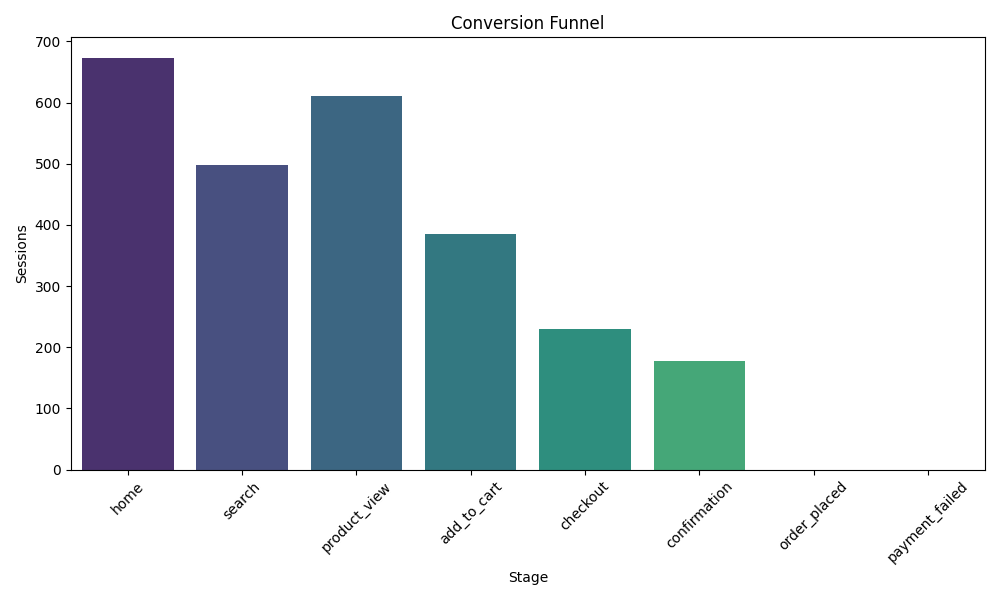
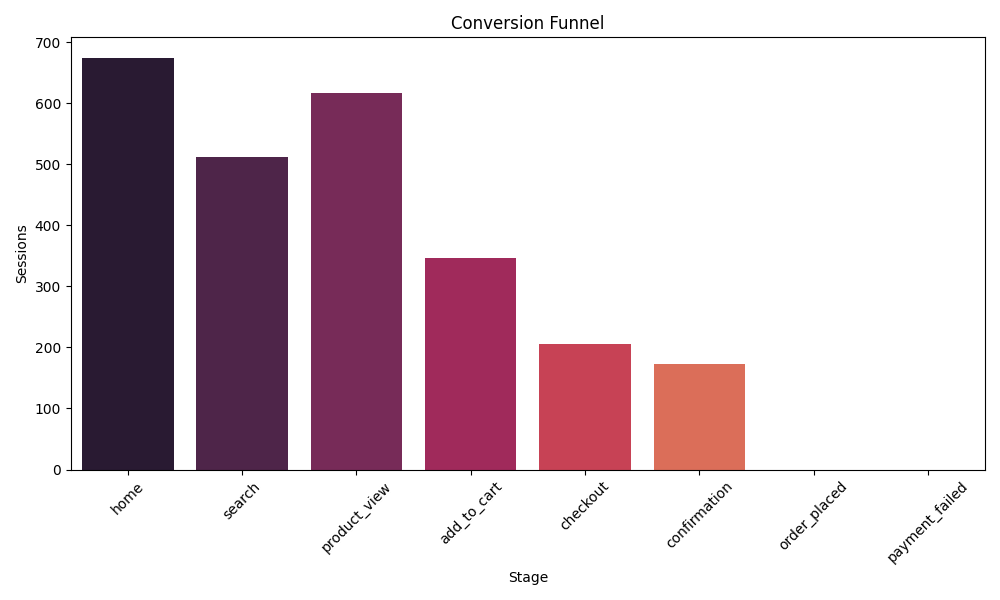
Update visualization colors and cleanup spark pipeline

Changed region(s): [[0.031, 0.09, 0.744, 0.81], [0.031, 0.06, 0.062, 0.09]]

diff --git a/src/spark_pipeline.py b/src/spark_pipeline.py
@@ -160,7 +160,7 @@ def generate_plots(gold_df):
     funnel_df = pd.DataFrame(list(funnel_counts.items()), columns=['Stage', 'Sessions'])
     
     plt.figure(figsize=(10, 6))
-    sns.barplot(data=funnel_df, x='Stage', y='Sessions', palette='viridis')
+    sns.barplot(data=funnel_df, x='Stage', y='Sessions', palette='rocket')
     plt.title('Conversion Funnel')
     plt.xticks(rotation=45)
     plt.tight_layout()
@@ -170,7 +170,7 @@ def generate_plots(gold_df):
 
     # 2. Session Duration Distribution
     plt.figure(figsize=(10, 6))
-    sns.histplot(pdf['duration_seconds'], bins=30, kde=True, color='skyblue')
+    sns.histplot(pdf['duration_seconds'], bins=30, kde=True, color='coral')
     plt.title('Session Duration Distribution')
     plt.xlabel('Duration (seconds)')
     plt.ylabel('Frequency')
@@ -240,86 +240,3 @@ def run():
 
 if __name__ == "__main__":
     run()
-
-from pyspark.sql.functions import col, to_timestamp, lag, sum as _sum, when, lit, count, max as _max, min as _min, concat_ws
-from pyspark.sql.window import Window
-from pyspark.sql.types import StructType, StructField, StringType
-import os
-import shutil
-from delta import *
-
-# Initialize Spark Session with Delta support
-builder = SparkSession.builder \
-    .appName("ClickstreamAnalytics") \
-    .config("spark.sql.extensions", "io.delta.sql.DeltaSparkSessionExtension") \
-    .config("spark.sql.catalog.spark_catalog", "org.apache.spark.sql.delta.catalog.DeltaCatalog")
-
-spark = configure_spark_with_delta_pip(builder).getOrCreate()
-
-# Paths
-BASE_DIR = os.getcwd()
-RAW_DATA_PATH = os.path.join(BASE_DIR, "clickstream_data.json")
-BRONZE_PATH = os.path.join(BASE_DIR, "delta/bronze")
-SILVER_PATH = os.path.join(BASE_DIR, "delta/silver")
-GOLD_PATH = os.path.join(BASE_DIR, "delta/gold")
-
-# Clean up previous runs (for demo purposes)
-if os.path.exists(os.path.join(BASE_DIR, "delta")):
-    shutil.rmtree(os.path.join(BASE_DIR, "delta"))
-
-def process_bronze():
-    print("Processing Bronze Layer...")
-    schema = StructType([
-        StructField("user_id", StringType(), True),
-        StructField("event_time", StringType(), True),
-        StructField("current_page", StringType(), True),
-        StructField("url", StringType(), True),
-        StructField("browser", StringType(), True),
-        StructField("device", StringType(), True)
-    ])
-    df = spark.read.json(RAW_DATA_PATH, schema=schema)
-    df.write.format("delta").mode("overwrite").save(BRONZE_PATH)
-    print(f"Bronze layer written to {BRONZE_PATH}")
-
-def process_silver():
-    print("Processing Silver Layer (Sessionization)...")
-    df = spark.read.format("delta").load(BRONZE_PATH)
-    df = df.withColumn("event_timestamp", to_timestamp(col("event_time")))
-    window_spec = Window.partitionBy("user_id").orderBy("event_timestamp")
-    df = df.withColumn("prev_time", lag("event_timestamp").over(window_spec))
-    df = df.withColumn("time_diff_seconds", (col("event_timestamp").cast("long") - col("prev_time").cast("long")))
-    df = df.withColumn("is_new_session", when((col("time_diff_seconds") > 1800) | (col("time_diff_seconds").isNull()), 1).otherwise(0))
-    df = df.withColumn("session_id", _sum("is_new_session").over(window_spec))
-    df = df.withColumn("unique_session_id", concat_ws("_", col("user_id"), col("session_id")))
-    df.write.format("delta").mode("overwrite").save(SILVER_PATH)
-    print(f"Silver layer written to {SILVER_PATH}")
-
-def process_gold():
-    print("Processing Gold Layer (Funnel & Aggregations)...")
-    df = spark.read.format("delta").load(SILVER_PATH)
-    session_stats = df.groupBy("unique_session_id").agg(
-        _max("event_timestamp").alias("end_time"),
-        _min("event_timestamp").alias("start_time"),
-        count("current_page").alias("page_views")
-    )
-    session_stats = session_stats.withColumn("duration_seconds", col("end_time").cast("long") - col("start_time").cast("long"))
-    funnel = df.groupBy("unique_session_id").pivot("current_page").count().na.fill(0)
-    gold_df = session_stats.join(funnel, "unique_session_id")
-    gold_df.write.format("delta").mode("overwrite").save(GOLD_PATH)
-    print(f"Gold layer written to {GOLD_PATH}")
-    print("\n--- Gold Layer Sample ---")
-    gold_df.show(5)
-    print("\n--- Funnel Summary ---")
-    total_sessions = gold_df.count()
-    print(f"Total Sessions: {total_sessions}")
-    stages = ["home", "search", "product_view", "add_to_cart", "checkout", "confirmation"]
-    for stage in stages:
-        if stage in gold_df.columns:
-            count_stage = gold_df.filter(col(stage) > 0).count()
-            print(f"{stage}: {count_stage} ({count_stage/total_sessions*100:.1f}%)")
-
-def run():
-    process_bronze()
-    process_silver()
-    process_gold()
-    spark.stop()
